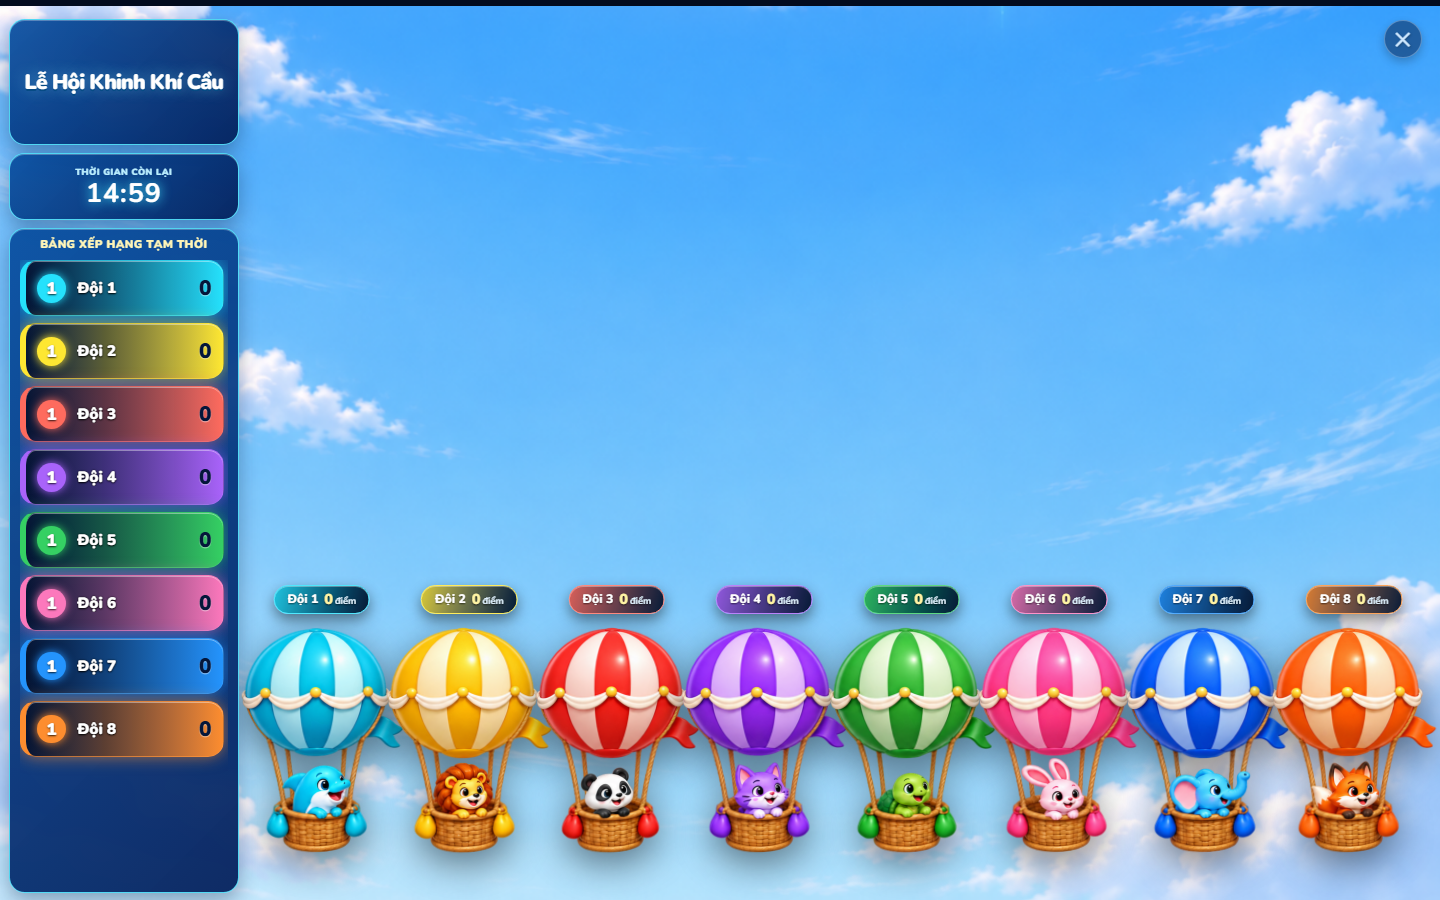
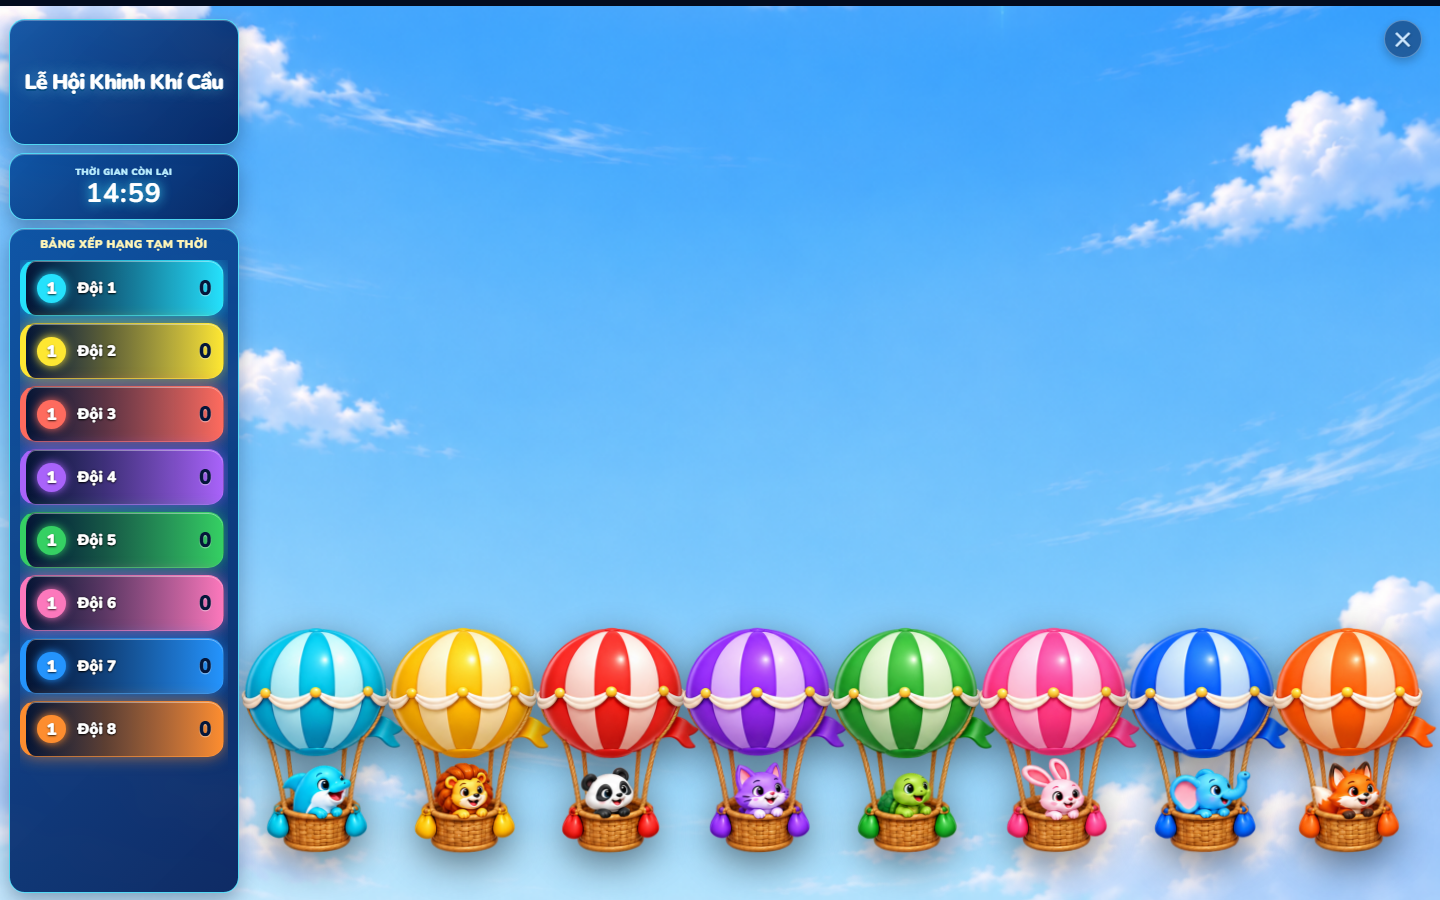
fix(team-competition): bỏ ô bảng tên và điểm trên đầu khinh khí cầu trong giao diện balloon-festival

Changed region(s): [[0.1875, 0.6222, 0.5625, 0.7156], [0.5938, 0.6222, 0.875, 0.7156], [0.9062, 0.6222, 1.0, 0.7156]]

diff --git a/src/main.js b/src/main.js
@@ -7724,7 +7724,7 @@ const app = {
                     const rocketFinishBadge = (isSpaceLaunch && score >= 10)
                         ? `<span class="team-rocket-finish-badge">⭐ ĐẾN TRẠM!</span>`
                         : '';
-                    const laneInfoHtml = isSpaceLaunch ? '' : `<div class="team-stadium-lane__info">${infoContent}</div>`;
+                    const laneInfoHtml = (isSpaceLaunch || isBalloonTheme) ? '' : `<div class="team-stadium-lane__info">${infoContent}</div>`;
 
                     return `<article class="team-stadium-lane team-stadium-lane--${lane.color} team-stadium-lane--${teamStatusClass}" data-stadium-lane="${lane.number}" style="--race-progress:${Math.round(scoreProgress * 66)}%; --boat-progress:${boatProgress}%; --boat-lane-top:${boatLaneTop.toFixed(2)}%; --boat-width:${boatWidth}px; --lane-z:${10 + index}; --balloon-altitude:${Math.round(scoreProgress * 36)}%; --rocket-altitude:${Math.round(scoreProgress * 44)}%; --balloon-center-x:${balloonCenterPct.toFixed(2)}%; --rocket-center-x:${balloonCenterPct.toFixed(2)}%; --lane-left:${laneLeftPct.toFixed(2)}%; --lane-width:${laneWidthPct.toFixed(2)}%" aria-label="${ariaDesc}">${laneInfoHtml}<img class="team-stadium-lane__vehicle" src="${vehicleAsset}" alt="${vehicleAlt}" loading="eager" decoding="async" />${rocketFinishBadge}</article>`;
                 }
